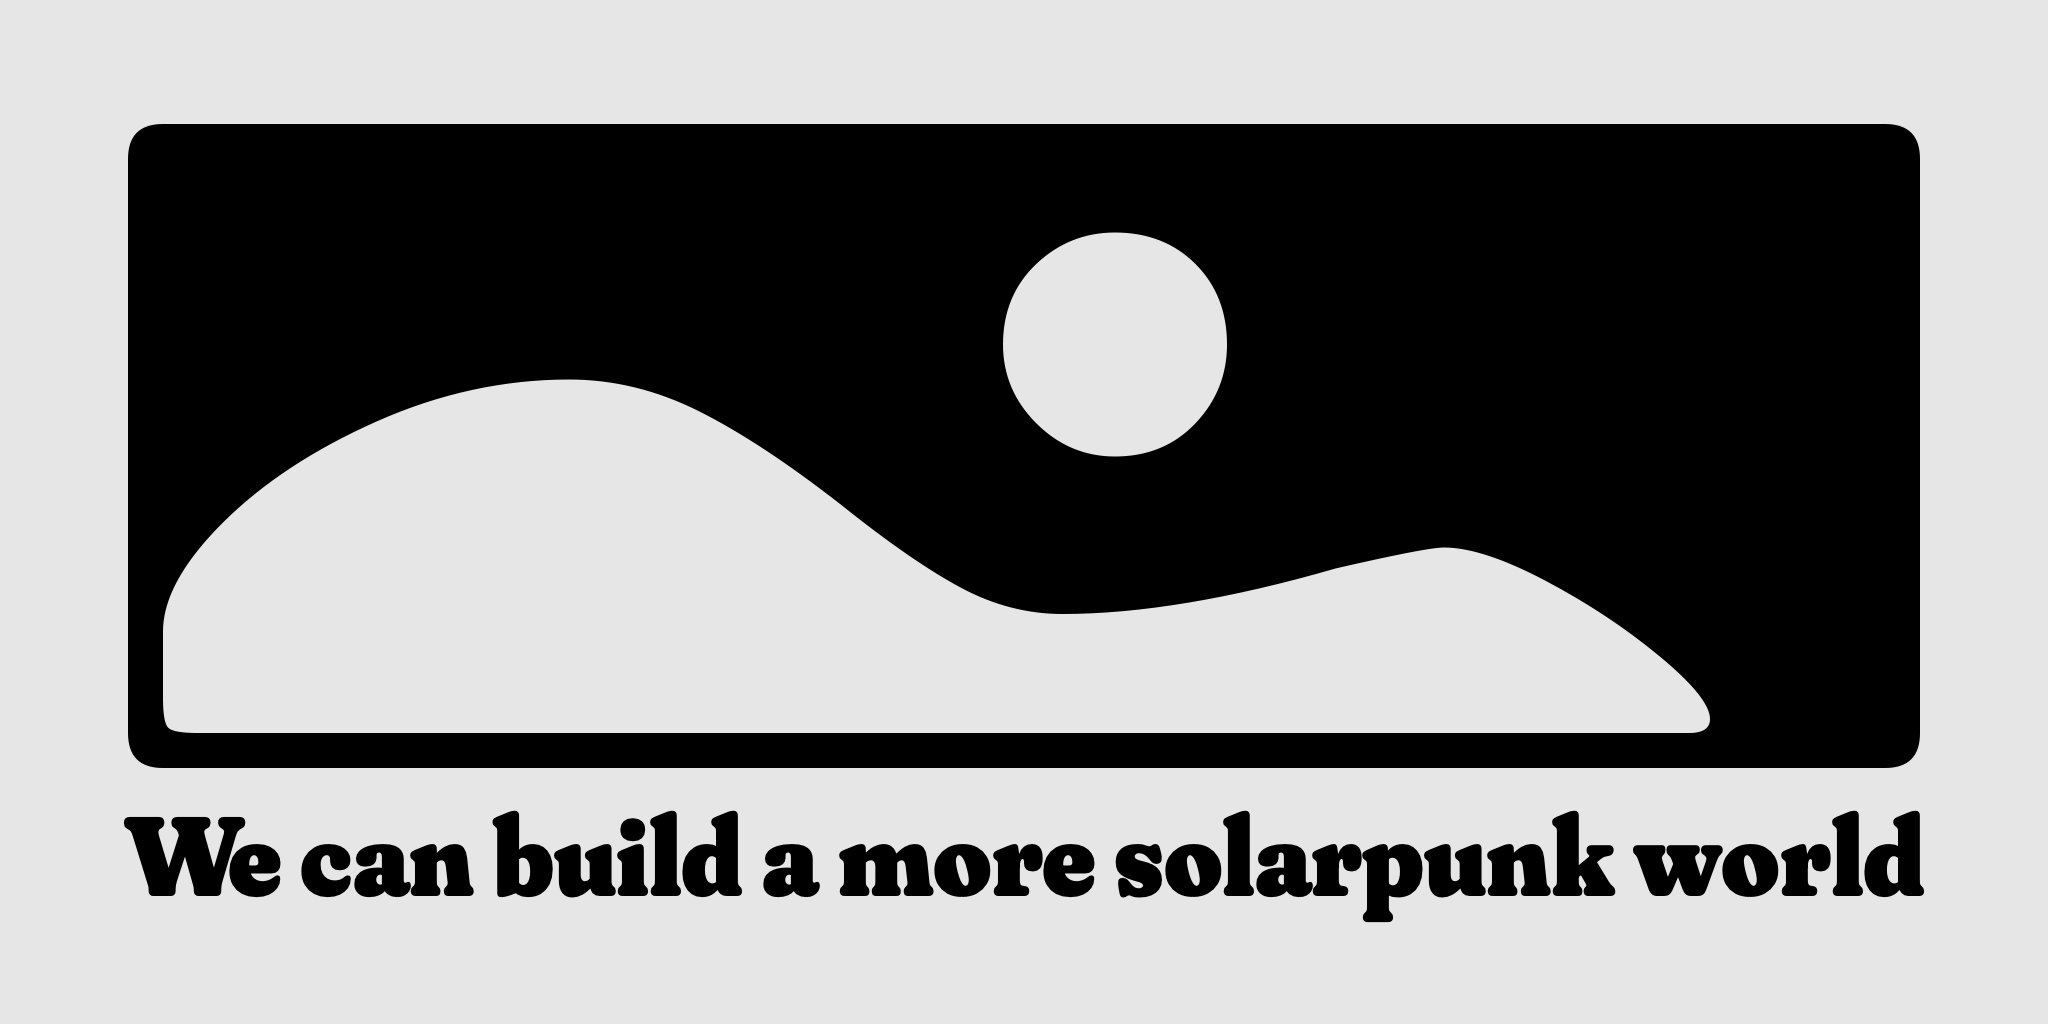
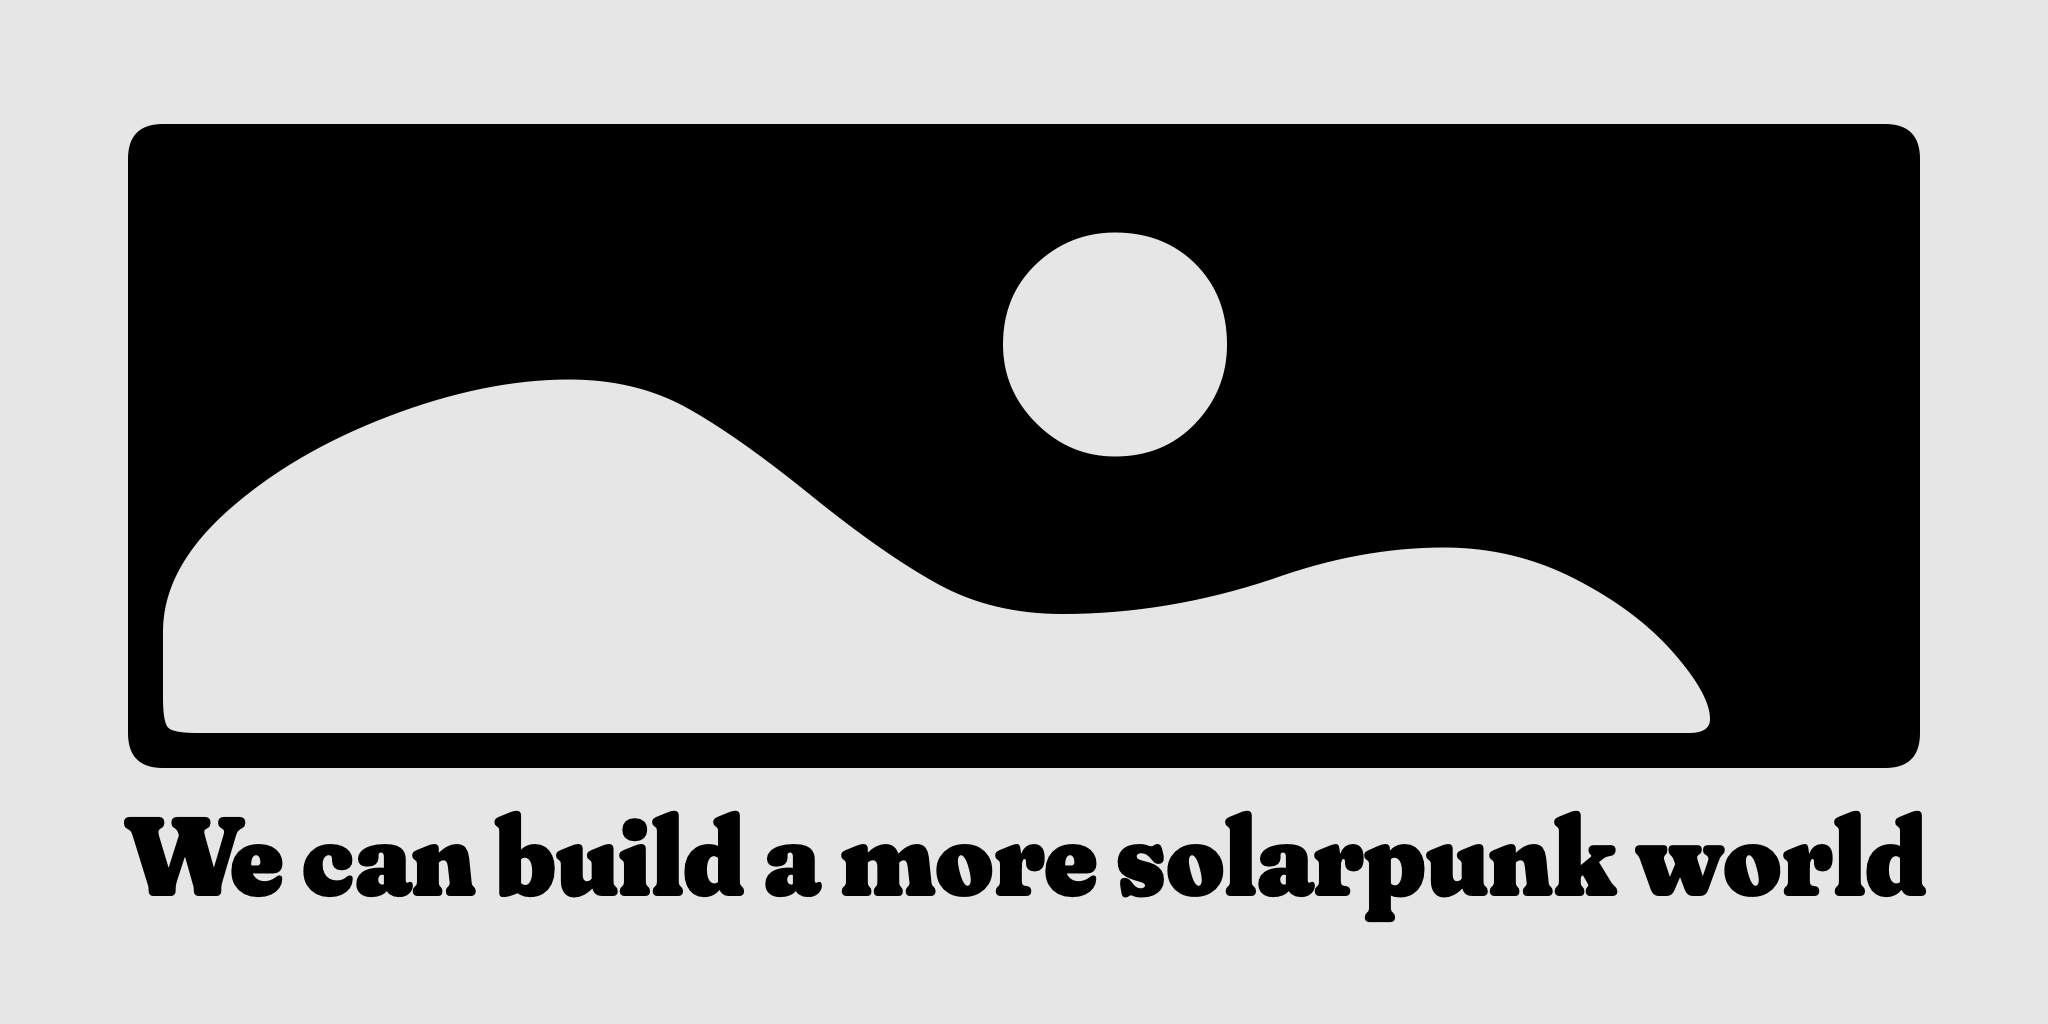
Update for submition

diff --git a/sources/quote-001-vitalik.py b/sources/quote-001-vitalik.py
@@ -27,7 +27,7 @@ def draw_background():
     fill(0)
     rect(-2, -2, WIDTH + 2, HEIGHT + 2)
     if GRID_VIEW:
-        #grid()
+        grid()
         pass
     else:
         pass
@@ -38,33 +38,32 @@ def draw_main_type():
     draw_background()
     fill(1)
     stroke(None)
-    font("fonts/fraunces/Fraunces[SOFT,WONK,opsz,wght].ttf")
+    font("fonts/fraunces/Fraunces-Italic[SOFT,WONK,opsz,wght].ttf")
     for axis, data in listFontVariations().items():
         print((axis, data))
-    fontSize(94.3)
+    fontSize(136)
 
-    fontVariations(wght=900.0) # Range: 100.0 -> 900.0
+    fontVariations(wght=700.0) # Range: 100.0 -> 900.0
     fontVariations(opsz=144.0) # Range: 9.0 -> 144.0
     fontVariations(SOFT=100.0) # Range: 0.0 -> 100.0 
     fontVariations(WONK=1.0)   # Range: 0,0 -> 1.0
-    text("Ethereum is a schelling point for the hopeful", (MARGIN-8, MARGIN + (0*MARGIN)))
+    text("“", (MARGIN-8, MARGIN + (5*MARGIN)))
+    text("E", (MARGIN+49, MARGIN + (5*MARGIN)))
+    text("ven a billion dollars of capital", (MARGIN+125, MARGIN + (5*MARGIN)))
+    text("cannot compete with", (MARGIN+64, MARGIN + (4*MARGIN)))
+    text("a project having a soul.", (MARGIN+64, MARGIN + (3*MARGIN)))
+    text("”", (MARGIN+1330, MARGIN + (3*MARGIN)))
+    font("fonts/fraunces/Fraunces[SOFT,WONK,opsz,wght].ttf")
+    fontVariations(wght=700.0) # Range: 100.0 -> 900.0
+    fontVariations(opsz=144.0) # Range: 9.0 -> 144.0
+    fontVariations(SOFT=100.0) # Range: 0.0 -> 100.0 
+    fontVariations(WONK=1.0)   # Range: 0,0 -> 1.0
+    text("—", (MARGIN+64, MARGIN + (1*MARGIN)))
+    text("Vitalik Buterin", (MARGIN+150, MARGIN + (1*MARGIN)))
 
-def draw_points():
-    vert_step = 1
-    point_step = 0
-    for j in range(11):
-        for i in range(29):
-            oval( (MARGIN-8)+(point_step) , (MARGIN-8)+(MARGIN*vert_step) ,16,16)
-            point_step += MARGIN/2
-        point_step = 0
-        vert_step += 0.5
-    point_step = 0
-
-# Build and save the image
+# Build and save the image and svg
 if __name__ == "__main__":
     draw_main_type()
-    draw_points()
-    # Save output, using the "--output" flag location
-    saveImage("quote-002-owocki.png")
-    # Print done in the terminal
+    saveImage("quote-001-vitalik.png")
+    saveImage("quote-001-vitalik.svg")
     print("DrawBot: Done :-)")

diff --git a/sources/quote-002-owocki.py b/sources/quote-002-owocki.py
@@ -2,7 +2,7 @@ from drawBot import *
 
 # Constants, these are the main "settings" for the image
 WIDTH, HEIGHT, MARGIN, FRAMES = 2048, 1024, 128, 1
-GRID_VIEW = True # Change this from "False" to "True" for a grid overlay
+GRID_VIEW = False # Change this from "False" to "True" for a grid overlay
 
 # Draws a grid
 def grid():
@@ -27,32 +27,42 @@ def draw_background():
     fill(0)
     rect(-2, -2, WIDTH + 2, HEIGHT + 2)
     if GRID_VIEW:
-        #grid()
+        grid()
         pass
     else:
         pass
 
-# hgtghraw main text
+
+# Draw main text
 def draw_main_type():
     draw_background()
-    fill(0.95)
+    fill(1)
     stroke(None)
-    #font("fonts/bobo/Bobo.ttf")
-    #font("fonts/rompacta/Rompacta.ttf")
-    font("fonts/print-shoppe/PrintShoppe-Regular.ttf")
+    font("fonts/fraunces/Fraunces[SOFT,WONK,opsz,wght].ttf")
     for axis, data in listFontVariations().items():
         print((axis, data))
-    fontSize(350)
-    #tracking(-4)
-    #text("Regen > Degen", (MARGIN-5, MARGIN + (0*MARGIN)))
-    text("REGEN>DEGEN", (MARGIN+39, MARGIN + (0*MARGIN)))
-    text("REGEN>DEGEN", (MARGIN+39, MARGIN + (2*MARGIN)))
-    text("REGEN>DEGEN", (MARGIN+39, MARGIN + (4*MARGIN)))
+    fontSize(94.3)
+
+    fontVariations(wght=900.0) # Range: 100.0 -> 900.0
+    fontVariations(opsz=144.0) # Range: 9.0 -> 144.0
+    fontVariations(SOFT=100.0) # Range: 0.0 -> 100.0 
+    fontVariations(WONK=1.0)   # Range: 0,0 -> 1.0
+    text("Ethereum is a schelling point for the hopeful", (MARGIN-8, MARGIN + (0*MARGIN)))
+
+def draw_points():
+    vert_step = 1
+    point_step = 0
+    for j in range(11):
+        for i in range(29):
+            oval( (MARGIN-8)+(point_step) , (MARGIN-8)+(MARGIN*vert_step) ,16,16)
+            point_step += MARGIN/2
+        point_step = 0
+        vert_step += 0.5
+    point_step = 0
 
 # Build and save the image
 if __name__ == "__main__":
     draw_main_type()
-    # Save output, using the "--output" flag location
-    saveImage("quote-004-regen-degen-a.png")
-    # Print done in the terminal
+    draw_points()
+    saveImage("quote-002-owocki.png")
     print("DrawBot: Done :-)")

diff --git a/sources/quote-004-regen-degen.py b/sources/quote-004-regen-degen.py
@@ -1,16 +1,10 @@
-# | drawbot.com | use drawbot-skia on GNU+Linux systems
 from drawBot import *
 
-
 # Constants, these are the main "settings" for the image
-WIDTH = 2048
-HEIGHT = 1024
-MARGIN = 128
-FRAMES = 1
+WIDTH, HEIGHT, MARGIN, FRAMES = 2048, 1024, 128, 1
 GRID_VIEW = True # Change this from "False" to "True" for a grid overlay
 
-
-# Draw a grid if the constant "GRID_VIEW" is set to "True"
+# Draws a grid
 def grid():
     stroke(1, 0, 0, 0.75)
     strokeWidth(2)
@@ -33,23 +27,30 @@ def draw_background():
     fill(0)
     rect(-2, -2, WIDTH + 2, HEIGHT + 2)
     if GRID_VIEW:
-        grid()
+        #grid()
+        pass
     else:
         pass
 
-
-def draw_image():
+# hgtghraw main text
+def draw_main_type():
     draw_background()
     fill(0.95)
     stroke(None)
+    #font("fonts/bobo/Bobo.ttf")
+    #font("fonts/rompacta/Rompacta.ttf")
     font("fonts/print-shoppe/PrintShoppe-Regular.ttf")
     for axis, data in listFontVariations().items():
         print((axis, data))
     fontSize(350)
+    #tracking(-4)
+    #text("Regen > Degen", (MARGIN-5, MARGIN + (0*MARGIN)))
+    text("REGEN>DEGEN", (MARGIN+39, MARGIN + (0*MARGIN)))
     text("REGEN>DEGEN", (MARGIN+39, MARGIN + (2*MARGIN)))
+    text("REGEN>DEGEN", (MARGIN+39, MARGIN + (4*MARGIN)))
 
 # Build and save the image
 if __name__ == "__main__":
-    draw_image()
+    draw_main_type()
     saveImage("quote-004-regen-degen.png")
     print("DrawBot: Done :-)")

diff --git a/sources/quote-003-solarpunk-world.py b/sources/quote-003-solarpunk-world.py
@@ -1,8 +1,10 @@
 from drawBot import *
 
+
 # Constants, these are the main "settings" for the image
 WIDTH, HEIGHT, MARGIN, FRAMES = 2048, 1024, 128, 1
-GRID_VIEW = True # Change this from "False" to "True" for a grid overlay
+GRID_VIEW = False # Change this from "False" to "True" for a grid overlay
+
 
 # Draws a grid
 def grid():
@@ -27,7 +29,7 @@ def draw_background():
     fill(0.9)
     rect(-2, -2, WIDTH + 2, HEIGHT + 2)
     if GRID_VIEW:
-        #grid()
+        grid()
         pass
     else:
         pass
@@ -48,7 +50,7 @@ def draw_main_type():
     fontVariations(SOFT=100.0) # Range: 0.0 -> 100.0 
     fontVariations(WONK=1.0)   # Range: 0,0 -> 1.0
     text("W", (MARGIN-5, MARGIN + (0*MARGIN)))
-    text("e can build a more solarpunk world", (MARGIN+100, MARGIN + (0*MARGIN)))
+    text("e can build a more solarpunk world", (MARGIN+102, MARGIN + (0*MARGIN)))
 
     fontSize(3500)
     font("fonts/clipart/Clipart-Regular.ttf")
@@ -57,7 +59,5 @@ def draw_main_type():
 # Build and save the image
 if __name__ == "__main__":
     draw_main_type()
-    # Save output, using the "--output" flag location
     saveImage("quote-003-solarpunk-world.png")
-    # Print done in the terminal
     print("DrawBot: Done :-)")
